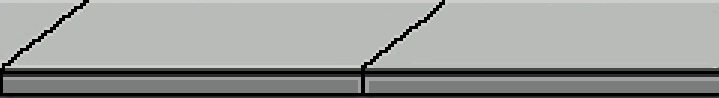
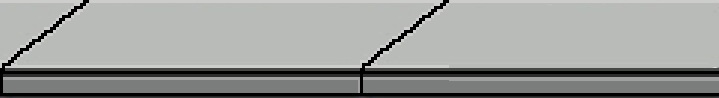
Floating at start and sidewalk movement

diff --git a/app/scripts/player.js b/app/scripts/player.js
@@ -1,22 +1,22 @@
 window.Player = (function() {
 	'use strict';
 
-	var Controls = window.Controls; 
+	var Controls = window.Controls;
 
 	// All these constants are in em's, multiply by 10 pixels
 	// for 1024x576px canvas.
-	var SPEED = 30; // * 10 pixels per second
-	var WIDTH = 9.8;
-	var HEIGHT = 8.2;
+	var WIDTH = 7.35;
+	var HEIGHT = 6.15;
 	var INITIAL_POSITION_X = 20;
 	var INITIAL_POSITION_Y = 25;
 	var GRAVITY = 275;
 	var JUMP_VELOCITY = 75;
-
+	
 	var Player = function(el, game) {
 		this.el = el;
 		this.game = game;
 		this.pos = { x: 0, y: 0 };
+		this.floatingTimer = 0;
 		
 		this.el.css({ 'width': WIDTH + 'em', 'height': HEIGHT + 'em' });
 	};
@@ -27,21 +27,35 @@ window.Player = (function() {
 	Player.prototype.reset = function() {
 		this.pos.x = INITIAL_POSITION_X;
 		this.pos.y = INITIAL_POSITION_Y;
-		this.vel = { x: 0, y: 1 };
+		this.vel = { x: 0, y: 0 };
+		Controls.resetAnyKey();
 	};
 
 	Player.prototype.onFrame = function(delta) {
-
+		
 		// Gravity
-		this.vel.y += GRAVITY * delta;
-
-		if (Controls.keys.space) {
+		if (Controls.anyKeyPressed()) {
+			this.vel.y += GRAVITY * delta;
+		}
+		else {
+			this.floatingTimer += delta;
+			if (this.floatingTimer > 1) {
+				this.floatingTimer -= 1;
+				this.vel.y = (this.vel.y < 0 ? 2 : -2);
+			}
+		}
+		
+		// Prevent endless jumping so holding down space bar does not work
+		if (Controls.didJump()) {
 			this.jump(JUMP_VELOCITY);
-		}		
+		}
+		
+		// Calculating falling distance
 		this.pos.y += delta * this.vel.y;
-
-		this.checkCollisionWithBounds();
-
+		
+		
+		this.checkCollisionWithGound();
+		
 		// Update UI
 		this.el.toggleClass('falling', (this.vel.y > 0));
 		this.el.css('transform', 'translate(' + this.pos.x + 'em, ' + this.pos.y + 'em)');
@@ -49,13 +63,10 @@ window.Player = (function() {
 
 	Player.prototype.jump = function (force) {
 		this.vel.y = -force;
-	}
+	};
 
-	Player.prototype.checkCollisionWithBounds = function() {
-		if (this.pos.x < 0 ||
-			this.pos.x + WIDTH > this.game.WORLD_WIDTH ||
-			this.pos.y < 0 ||
-			this.pos.y + HEIGHT > this.game.WORLD_HEIGHT) {
+	Player.prototype.checkCollisionWithGound = function() {
+		if (this.pos.y + HEIGHT > this.game.WORLD_HEIGHT - 5) {
 			return this.game.gameover();
 		}
 	};

diff --git a/app/scripts/controls.js b/app/scripts/controls.js
@@ -21,6 +21,7 @@ window.Controls = (function() {
      */
     var Controls = function() {
         this._didJump = false;
+        this._hasAnyKeyPressed = false;
         this.keys = {};
         $(window)
             .on('keydown', this._onKeyDown.bind(this))
@@ -28,6 +29,11 @@ window.Controls = (function() {
     };
 
     Controls.prototype._onKeyDown = function(e) {
+        // 
+        if (this._hasAnyKeyPressed === false) {
+            this._hasAnyKeyPressed = true;
+        }
+        
         // Only jump if space wasn't pressed.
         if (e.keyCode === 32 && !this.keys.space) {
             this._didJump = true;
@@ -56,6 +62,15 @@ window.Controls = (function() {
         var answer = this._didJump;
         this._didJump = false;
         return answer;
+    };
+    /**
+     * Waits for anykey when the game starts
+     */
+    Controls.prototype.anyKeyPressed = function () {
+        return this._hasAnyKeyPressed;
+    };
+    Controls.prototype.resetAnyKey = function () {
+        this._hasAnyKeyPressed = false;
     };
     
     // Export singleton.

diff --git a/app/scripts/game.js b/app/scripts/game.js
@@ -7,11 +7,18 @@ window.Game = (function() {
 	 * @param {Element} el jQuery element containing the game.
 	 * @constructor
 	 */
+	
+	// All these constants are in em's, multiply by 10 pixels
+	// for 1024x576px canvas.
+	var SPEED = 30; // * 10 pixels per second
+	
 	var Game = function(el) {
 		this.el = el;
+		this.sidewalkEl = this.el.find('.Sidewalk');
 		this.player = new window.Player(this.el.find('.Player'), this);
 		this.isPlaying = false;
-
+		this.sidewalkPos = 0;
+		
 		// Cache a bound onFrame since we need it each frame.
 		this.onFrame = this.onFrame.bind(this);
 	};
@@ -33,6 +40,14 @@ window.Game = (function() {
 
 		// Update game entities.
 		this.player.onFrame(delta);
+		
+		// Animate obstacles
+		// TODO
+		
+		// Animate sidewalk
+		this.sidewalkPos -= delta * SPEED;
+		if (this.sidewalkPos <= -36.1) { this.sidewalkPos += 36.1; }
+		this.sidewalkEl.css('transform', 'translate(' + this.sidewalkPos + 'em, 0)');
 
 		// Request next frame.
 		window.requestAnimationFrame(this.onFrame);

diff --git a/app/styles/main.css b/app/styles/main.css
@@ -22,8 +22,8 @@ body {
 	position: absolute;
 	bottom: 0;
 	left: 0;
-	width: 48.0em;
-	height: 9.8em;
+	width: 96.0em;
+	height: 9.6em;
 	background: url("../images/sidewalk.jpg") repeat-x scroll 0 0 transparent;
 }
 .Player {
